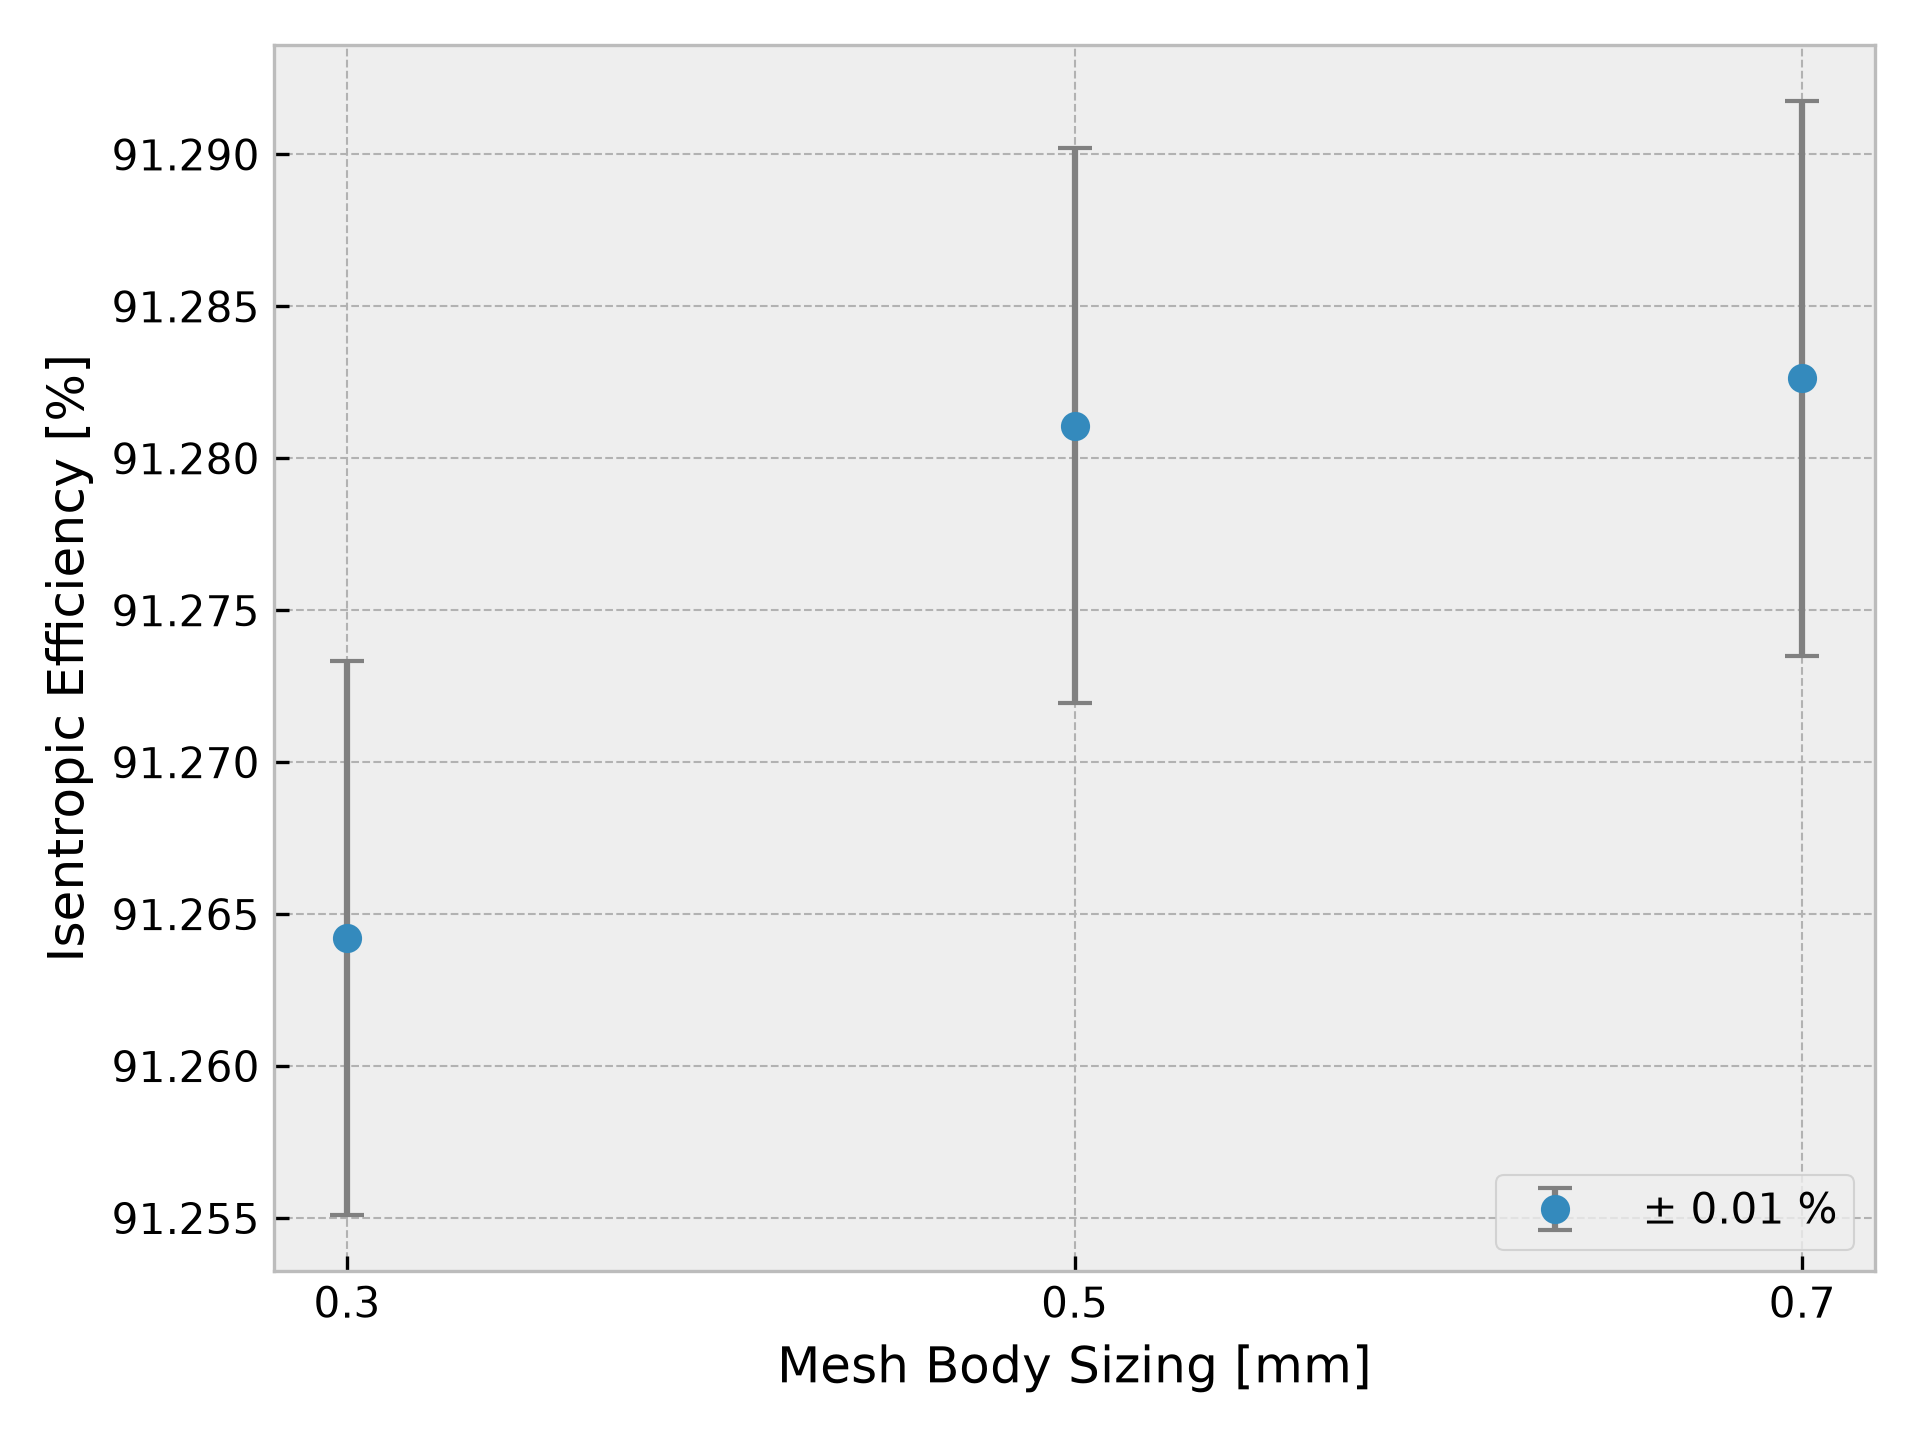
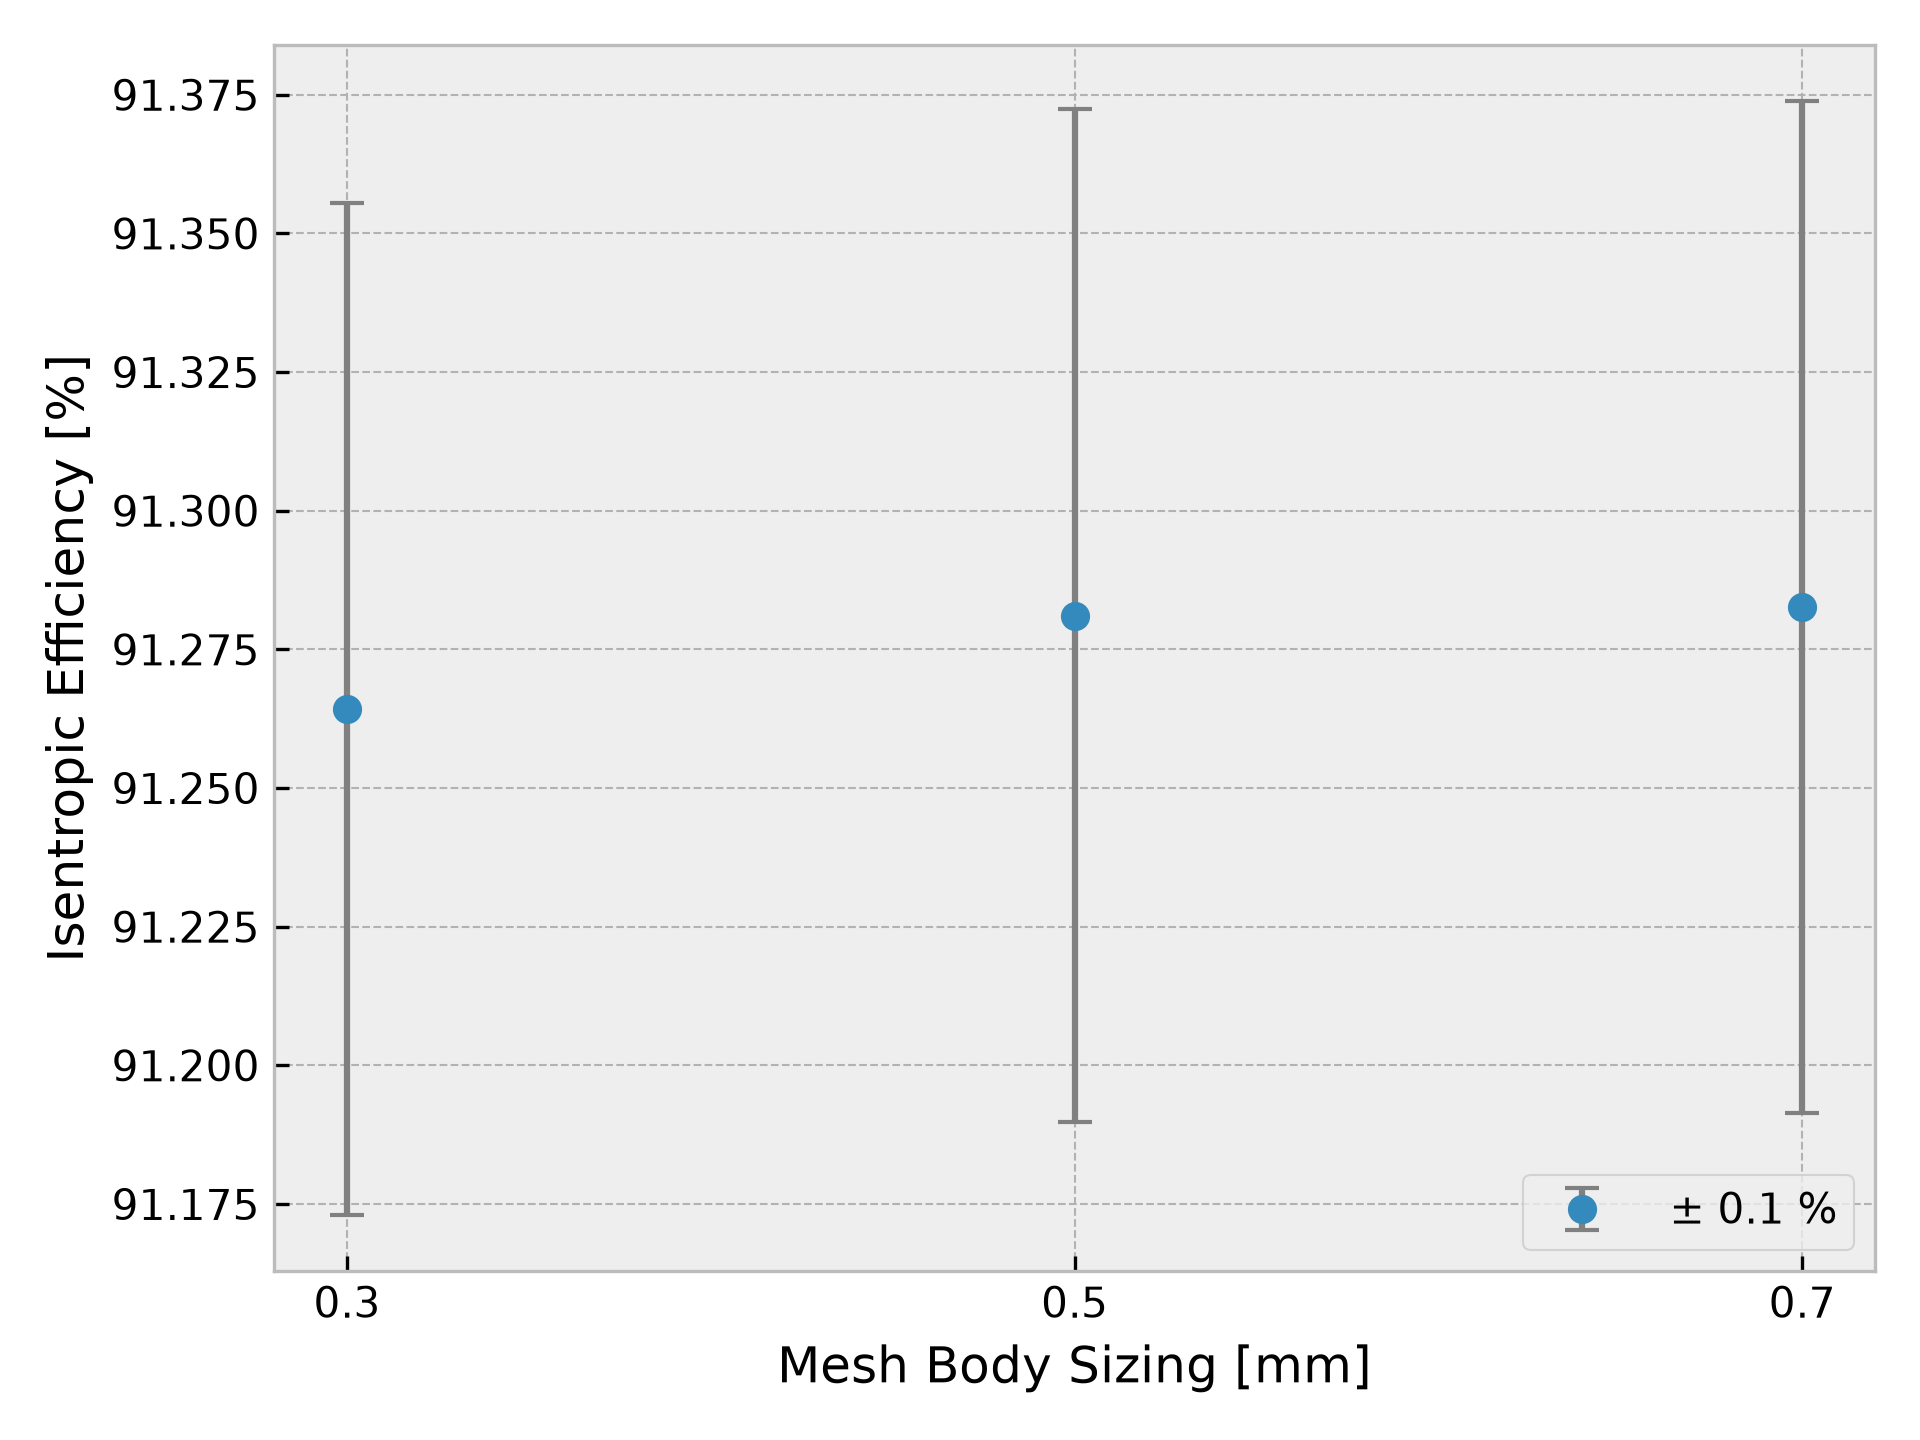
Fix mesh convergence study

diff --git a/mesh_convergence_plots.py b/mesh_convergence_plots.py
@@ -43,7 +43,7 @@ ax.set_ylim(bottom=0)
 ax.legend(labels=[f"{mesh_bsize:.2f}" for mesh_bsize in mesh_bsize_list], title="Mesh Body Sizing [mm]",
           alignment="left")
 
-tol_val = 0.01  # %
+tol_val = 0.1  # %
 fig1, ax1 = plt.subplots(1, 1)
 ax1.errorbar(mesh_bsize_array, eta_s_f_array, yerr=eta_s_f_array * tol_val / 100, fmt="o", ecolor="gray",
              elinewidth=1.5,
